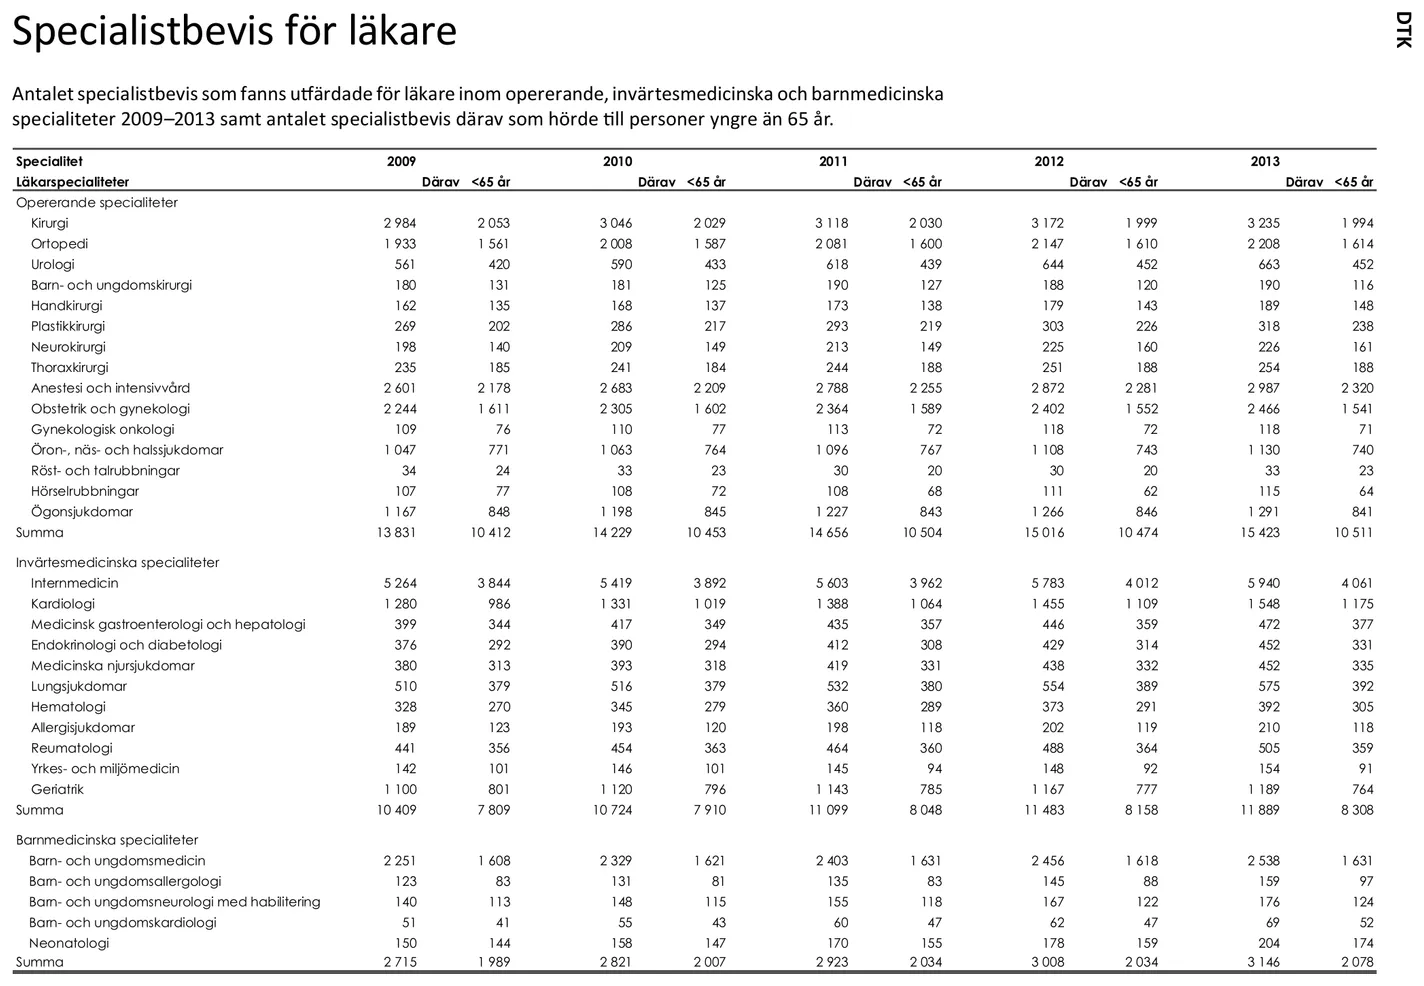
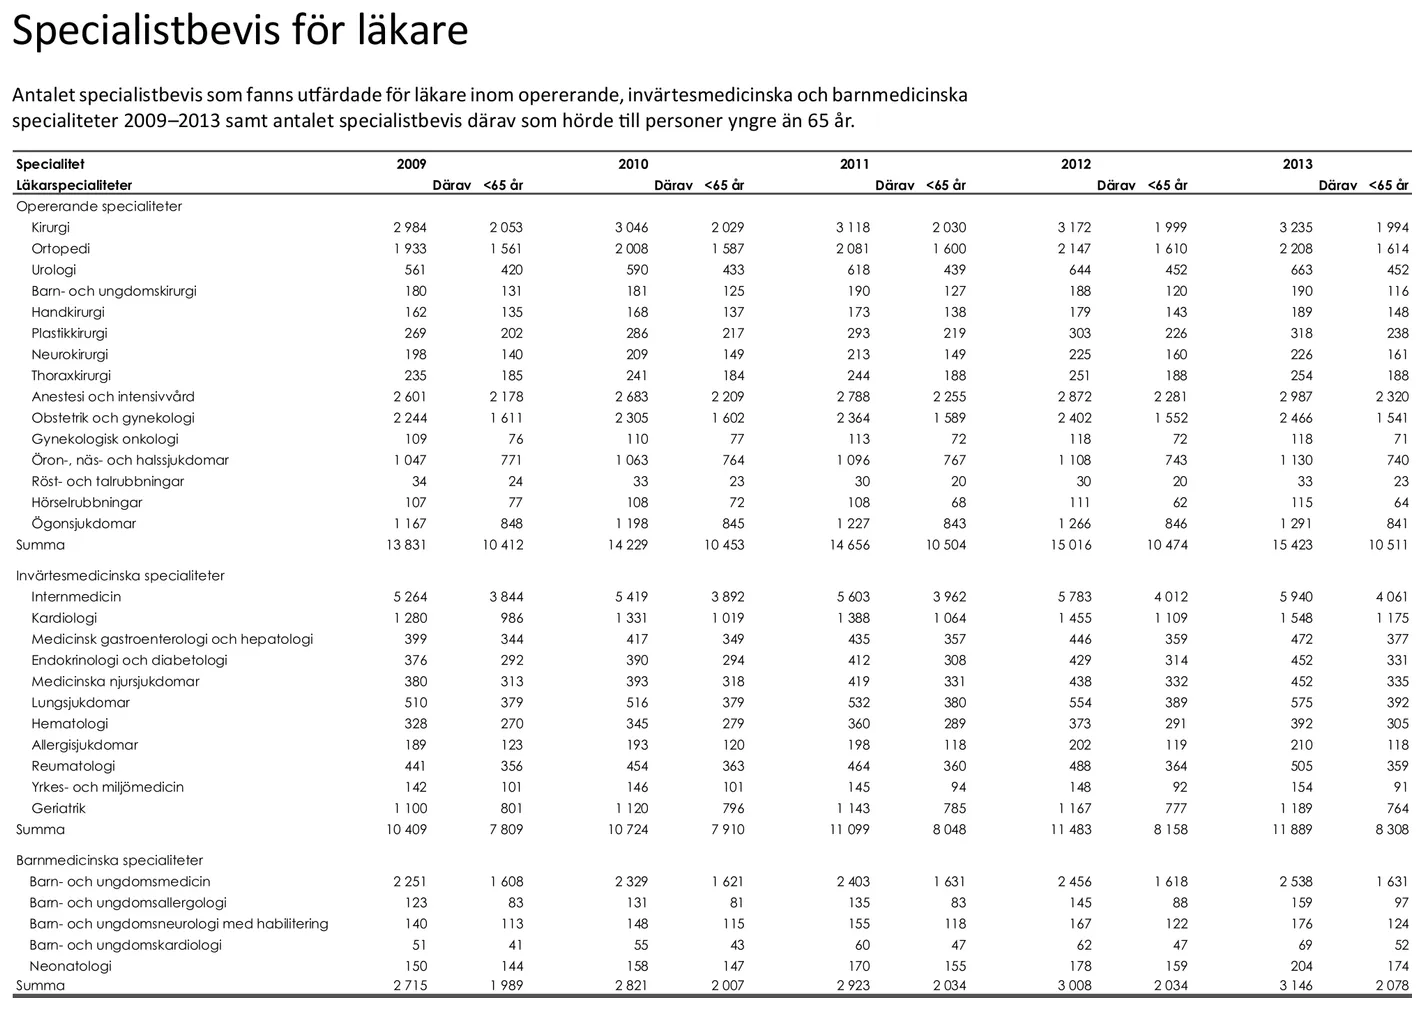
fix(uhr): sidhuvudet på DTK-sidor känns igen på sina ord
Ger samma utklipp som förut på vanliga sidor, men tar inte med det lodräta
sidhuvudet på liggande sidor och tappar inga tabellord nära överkanten.

diff --git a/scripts/uhr/figur.ts b/scripts/uhr/figur.ts
@@ -59,26 +59,18 @@ async function rotated(buf: Buffer, rotate: number | undefined): Promise<Buffer>
 }
 
 /**
- * DTK-sidans innehåll: under sidhuvudet, ovanför sidnumret, innanför
- * skärmärkena. På en liggande sida går texten lodrätt, och ord ur tabeller
- * och rubriker hamnar nära sidans överkant; där används bara vågräta ord för
- * att hitta sidhuvud och sidnummer.
+ * DTK-sidans innehåll: under sidhuvudet ("DTK – Diagram, tabeller och kartor"
+ * eller "DTK"), ovanför sidnumret, innanför skärmärkena. Sidhuvudet känns igen
+ * på sina ord, så att ord ur en tabell nära överkanten (liggande sidor, där
+ * texten går lodrätt) inte tas för sidhuvudet.
  */
 function dtkBox(page: PageBox): Box {
-  const horizontal = (w: PageBox["words"][number]) => w.x1 - w.x0 >= w.y1 - w.y0;
-  const longWords = page.words.filter((w) => w.text.length >= 4);
-  const landscape =
-    longWords.length >= 10 && longWords.filter((w) => !horizontal(w)).length / longWords.length > 0.5;
-  const head = landscape
-    ? []
-    : page.words.filter((w) => w.y1 < page.height * 0.1 && w.y0 > page.height * 0.03 && horizontal(w));
-  const foot = page.words.filter(
-    (w) =>
-      w.y0 > page.height * 0.9 &&
-      w.y1 < page.height * 0.96 &&
-      (!landscape || (w.text.length <= 3 && w.x0 > page.width * 0.35 && w.x1 < page.width * 0.65)),
+  const HEADER = /^(DTK|–|Diagram,?|tabeller|och|kartor)$/;
+  const head = page.words.filter(
+    (w) => w.y1 < page.height * 0.1 && w.y0 > page.height * 0.03 && HEADER.test(w.text),
   );
-  const top = head.length > 0 ? Math.max(...head.map((w) => w.y1)) + 4 : page.height * (landscape ? 0.045 : 0.08);
+  const foot = page.words.filter((w) => w.y0 > page.height * 0.9 && w.y1 < page.height * 0.96);
+  const top = head.length > 0 ? Math.max(...head.map((w) => w.y1)) + 4 : page.height * 0.08;
   const bottom = foot.length > 0 ? Math.min(...foot.map((w) => w.y0)) - 4 : page.height * 0.92;
   return [0.05, top / page.height, 0.95, bottom / page.height];
 }
